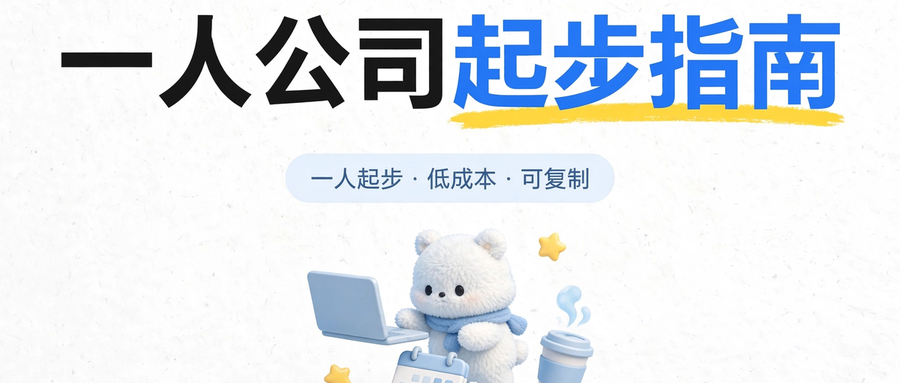
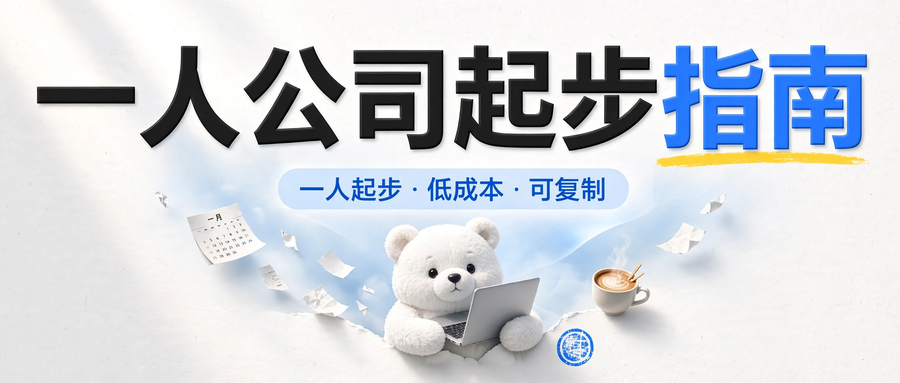
bump: 0.7.3
- white-clean 示例图按震撼升级包重生成（3D 雕塑字/前景压字/纵深三层/体积光）
- 微信版 900×383 中央裁剪同步更新

diff --git a/docs/PUBLISHING.md b/docs/PUBLISHING.md
@@ -12,7 +12,7 @@
 - 包：<https://www.npmjs.com/package/@topmindspace/topmind-writing-skills>
 - 仓库：<https://github.com/topmindspace/topmind-writing-skills>
 
-当前线：安装器 **0.7.2** · 技能 topmind-cover **0.3.1** · topmind-wechat-post **0.2.0** · topmind-x-article **0.4.0** · topmind-briefs **0.2.1**（整仓同 tag 发版；见 CHANGELOG）。
+当前线：安装器 **0.7.3** · 技能 topmind-cover **0.3.1** · topmind-wechat-post **0.2.0** · topmind-x-article **0.4.0** · topmind-briefs **0.2.1**（整仓同 tag 发版；见 CHANGELOG）。
 演示技能已独立为 `topmind-presentation`（仓库 `topmind-presentation`），不在本仓发布线内。
 
 
@@ -36,7 +36,7 @@ npm 上的旧包 `@topmindspace/tms-skills` **2.0.0–2.1.1 已弃用**（仓库
 
 ## 版本策略（务必遵守）
 
-**整仓同 tag**：`git tag vX.Y.Z` 的 `X.Y.Z` = 根 `package.json` 的 `version`（即安装器 version，如当前 v0.7.2）；tag 号不代表任何技能版本。**各技能 `version` 独立演进**（如 topmind-x-article 0.4.0、topmind-cover 0.3.0），不与 tag 号绑定。
+**整仓同 tag**：`git tag vX.Y.Z` 的 `X.Y.Z` = 根 `package.json` 的 `version`（即安装器 version，如当前 v0.7.3）；tag 号不代表任何技能版本。**各技能 `version` 独立演进**（如 topmind-x-article 0.4.0、topmind-cover 0.3.0），不与 tag 号绑定。
 
 | 包 | 事实源 | 规则 |
 |----|--------|------|

diff --git a/README.en.md b/README.en.md
@@ -78,7 +78,7 @@ Installer [`@topmindspace/topmind-writing-skills`](https://www.npmjs.com/package
 npx @topmindspace/topmind-writing-skills list
 npx @topmindspace/topmind-writing-skills install topmind-briefs
 npx @topmindspace/topmind-writing-skills install topmind-briefs --to ./.claude/skills
-npx @topmindspace/topmind-writing-skills@0.7.2 install topmind-briefs   # pin
+npx @topmindspace/topmind-writing-skills@0.7.3 install topmind-briefs   # pin
 npx @topmindspace/topmind-writing-skills uninstall topmind-briefs --to ./.claude/skills
 ```
 

diff --git a/README.md b/README.md
@@ -78,7 +78,7 @@ npx @topmindspace/topmind-writing-skills install topmind-cover
 npx @topmindspace/topmind-writing-skills list
 npx @topmindspace/topmind-writing-skills install topmind-briefs
 npx @topmindspace/topmind-writing-skills install topmind-briefs --to ./.claude/skills
-npx @topmindspace/topmind-writing-skills@0.7.2 install topmind-briefs   # 钉版本
+npx @topmindspace/topmind-writing-skills@0.7.3 install topmind-briefs   # 钉版本
 npx @topmindspace/topmind-writing-skills uninstall topmind-briefs --to ./.claude/skills
 ```
 

diff --git a/CHANGELOG.md b/CHANGELOG.md
@@ -1,3 +1,8 @@
+## [0.7.3] - 2026-10-01
+
+> 根包 0.7.2 → **0.7.3**（patch）。white-clean 示例图按震撼升级包重生成
+> （`assets/examples/white-clean.png` + 微信版中央裁剪）。
+
 ## [0.7.2] - 2026-10-01
 
 > 根包 0.7.1 → **0.7.2**（patch）；技能：topmind-cover 0.3.0 → **0.3.1**（patch）。
